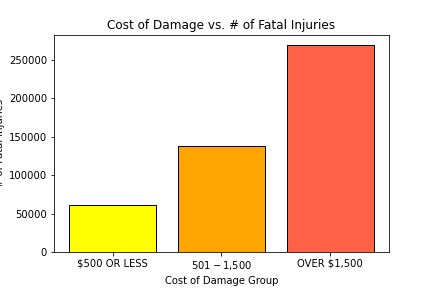
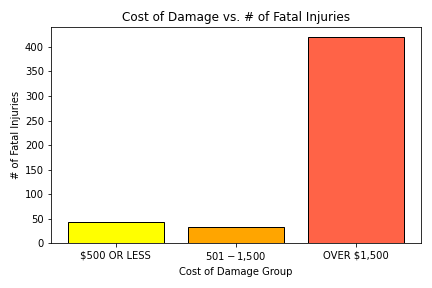
looking into holiday months and weather

diff --git a/README.md b/README.md
@@ -1,6 +1,5 @@
 # project-one
-# Documentation https://data.cityofchicago.org/Transportation/Traffic-Crashes-Crashes/85ca-t3if
-# weather API: https://www.climacell.co/weather-api/
+### Documentation https://data.cityofchicago.org/Transportation/Traffic-Crashes-Crashes/85ca-t3if
 ### Crash Data -  Chicago
 ##### Timeframe: 2015-2021
 
@@ -22,6 +21,31 @@
 
 * Scatterplot outliers for lane count
 
+
+#### Injuries Section - Jon
+
+###### Do car crashes tend to yield more serious injuries as the cost of damage increases?
+
+1st Plot: Cost of Damage group vs. Injuries Total (pie chart)
+
+-- The cost of damage shows that the majority of injuries fall within the damage group of over $1500, at 57.6%, and the $500-1500 group taking up 29.4% of injuries. With that being said, only 13% of total injuries due to car wrecks ended up having a damage cost of less than $500.
+
+2nd Plot: Cost of Damage vs. # of Fatal Injuries
+
+-- Based on the graph, there is a clear positive correlation between cost of damage and fatal injury count. As the as cost of damage increased, the # of fatal injuries increased as well.
+
+3rd Plot: Speed Limit vs. # of Fatal Injuries
+
+-- A huge majority of fatal injuries proved to be in areas where the posted speed limit was 30mph. This could largely be due to the fact that people were speeding in residential areas which are prone to having more parked cars, dips, lights, stop signs, etc. as compared to areas with faster speed limits like freeways. 
+
+#### New Driver/High School Impact?
+###### Do more accidents occur close to local high schools?
+-- Many people begin to learn to drive in high school. We sought to examine a potential correlation between location of high schools and crash counts in Chicage. A heatmap of crash counts by location paired with the location of local high schools shows that although plenty of crashes occur near high schools, there are plenty of locations that experience a high frequency of accidents without a local high school nearby. Thus, we are unable to reject the null hypothesis. 
+
+#### Street Direction
+###### Does the direction of the street and time of day impact the number of crashes?
+-- Looking at Total Crashes per Street Direction (2015-2021), there is an alarmingly high disparity between the total number of accidents on Eastbound vs. Westbound roads. Over 4x more accidents happen on Westbound roads than Eastbound. We hypothesized Eastbound roads would show a slight spike in crash count earlier in the day possibly due to the rising sun. As well by the same logic, the crash count for Westbound roads would be higher in the evening due to the setting sun. The results were not able to reject the null hypothesis as Westbound roads outweigh Eastbound roads regardless of the time of day.
+
 ----
 ## Loose Timeline
 <del>1/6 - end of class
@@ -40,10 +64,10 @@
 * <del>Rough draft of code
 * <del>Major questions answered
 
-1/11 - end of class
-* Code and charts completed
-* Outline of analysis
-* Individual responsibilities
+<del>1/11 - end of class
+* <del>Code and charts completed
+* <del>Outline of analysis
+* <del>Individual responsibilities
 
 1/13 - end of class
 * Analysis rough drafts
